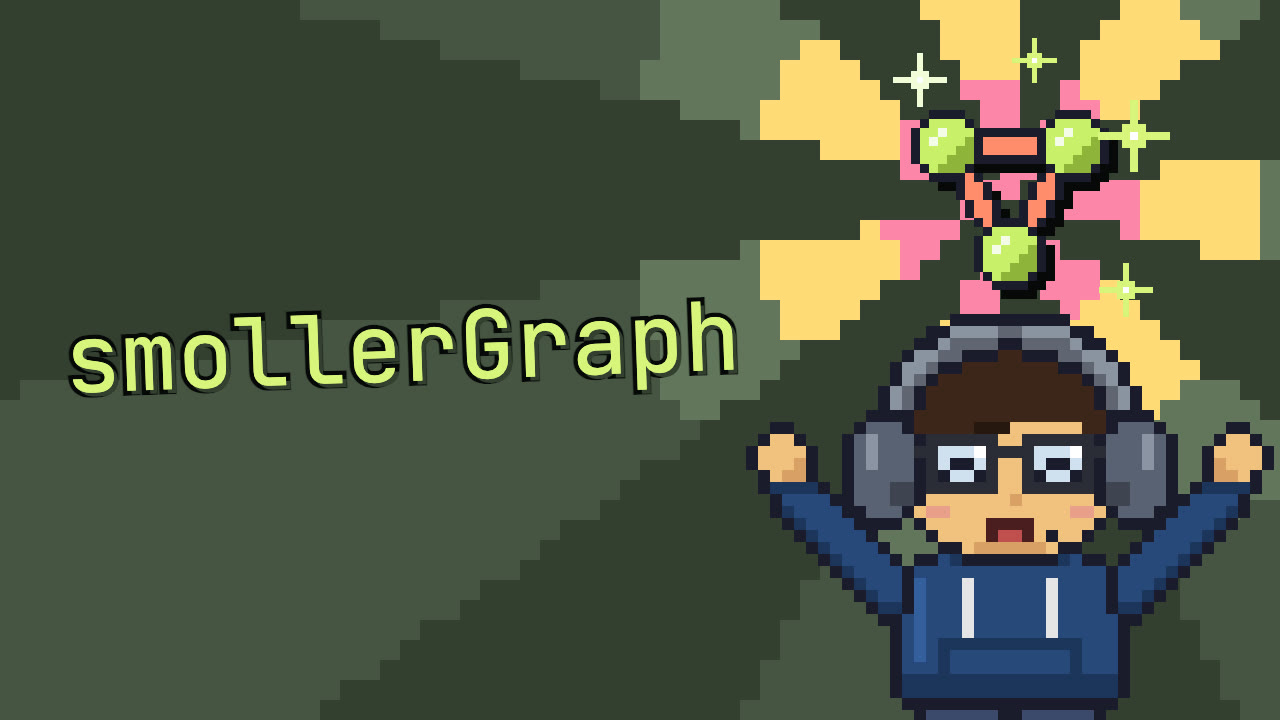
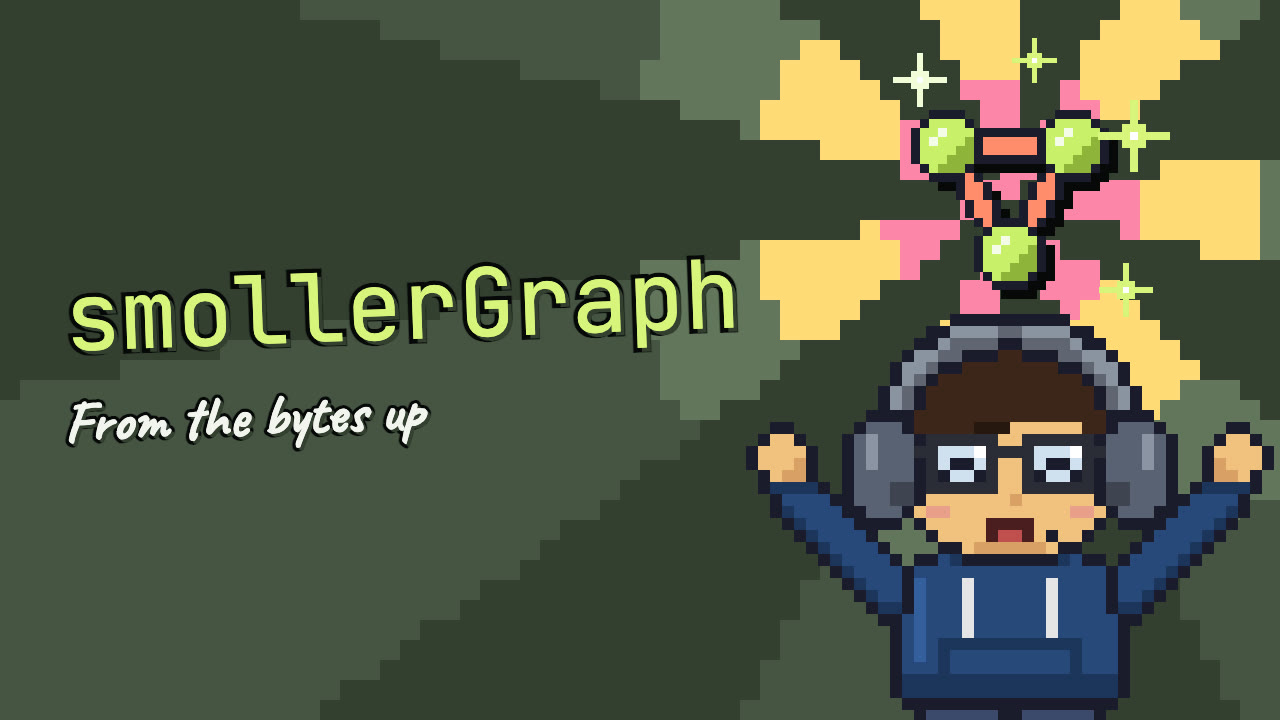
Build the site from smollerGraph-series 000b285

Changed region(s): [[0.0312, 0.3361, 0.5938, 0.6417]]

diff --git a/index.html b/index.html
@@ -1,4 +1,4 @@
-<!DOCTYPE html><html lang="en-GB" data-astro-cid-hkbrpulz><head><meta charset="utf-8"><meta name="viewport" content="width=device-width, initial-scale=1"><title>smollerGraph | Building smollerGraph: A Graph Database from Scratch</title><meta name="description" content="We're going to build a small graph database from scratch in C++: how it stores nodes and relationships on disk, how it finds its way around them, and how a Cypher query becomes a plan that runs, with Neo4j and Kùzu as the systems we learn from and measure against, heading towards a knowledge graph that mvGPT can ask for facts."><link rel="canonical" href="https://smollergraph.nenuadrian.com/"><link rel="icon" href="/favicon.svg" type="image/svg+xml"><link rel="alternate" type="application/rss+xml" title="smollerGraph" href="/rss.xml"><link rel="sitemap" href="/sitemap.xml"><meta name="theme-color" content="#0a0f0e"><meta property="og:site_name" content="smollerGraph"><meta property="og:type" content="website"><meta property="og:title" content="smollerGraph | Building smollerGraph: A Graph Database from Scratch"><meta property="og:description" content="We're going to build a small graph database from scratch in C++: how it stores nodes and relationships on disk, how it finds its way around them, and how a Cypher query becomes a plan that runs, with Neo4j and Kùzu as the systems we learn from and measure against, heading towards a knowledge graph that mvGPT can ask for facts."><meta property="og:url" content="https://smollergraph.nenuadrian.com/"><meta property="og:locale" content="en_GB"><meta property="og:image" content="https://smollergraph.nenuadrian.com/cover.3e89d479cf.jpg"><meta property="og:image:alt" content="Building smollerGraph: A Graph Database from Scratch"><meta name="twitter:card" content="summary_large_image"><style>:root{--bg:#0a0f0e;--bg-rgb:10 15 14;--surface:#0e1513;--surface-2:#121c19;--line:#182521;--shadow:#1f302b;--text:#e6ede2;--heading:#f1f5ee;--prose:#d6ddd3;--muted:#a2aba2;--faint:#7d8780;--ember:#c8f169;--ember-2:#ff8c6b;--on-ember:#0e1513;--code:#C8F169;--font-display:"JetBrains Mono", var(--font-ui);--font-ui:"Inter", -apple-system, 'Helvetica Neue', sans-serif;--font-mono:"JetBrains Mono", Menlo, monospace;--font-hand:"Caveat", 'Comic Sans MS', cursive}</style><style>/* smollerGraph's website on top of aphrodite's: the look's green-black field, chartreuse for nodes
+<!DOCTYPE html><html lang="en-GB" data-astro-cid-hkbrpulz><head><meta charset="utf-8"><meta name="viewport" content="width=device-width, initial-scale=1"><title>smollerGraph | Building smollerGraph: A Graph Database from Scratch</title><meta name="description" content="We're going to build a small graph database from scratch in C++: how it stores nodes and relationships on disk, how it finds its way around them, and how a Cypher query becomes a plan that runs, with Neo4j and Kùzu as the systems we learn from and measure against, heading towards a knowledge graph that mvGPT can ask for facts."><link rel="canonical" href="https://smollergraph.nenuadrian.com/"><link rel="icon" href="/favicon.svg" type="image/svg+xml"><link rel="alternate" type="application/rss+xml" title="smollerGraph" href="/rss.xml"><link rel="sitemap" href="/sitemap.xml"><meta name="theme-color" content="#0a0f0e"><meta property="og:site_name" content="smollerGraph"><meta property="og:type" content="website"><meta property="og:title" content="smollerGraph | Building smollerGraph: A Graph Database from Scratch"><meta property="og:description" content="We're going to build a small graph database from scratch in C++: how it stores nodes and relationships on disk, how it finds its way around them, and how a Cypher query becomes a plan that runs, with Neo4j and Kùzu as the systems we learn from and measure against, heading towards a knowledge graph that mvGPT can ask for facts."><meta property="og:url" content="https://smollergraph.nenuadrian.com/"><meta property="og:locale" content="en_GB"><meta property="og:image" content="https://smollergraph.nenuadrian.com/cover.71113bfdbb.jpg"><meta property="og:image:alt" content="Building smollerGraph: A Graph Database from Scratch"><meta name="twitter:card" content="summary_large_image"><style>:root{--bg:#0a0f0e;--bg-rgb:10 15 14;--surface:#0e1513;--surface-2:#121c19;--line:#182521;--shadow:#1f302b;--text:#e6ede2;--heading:#f1f5ee;--prose:#d6ddd3;--muted:#a2aba2;--faint:#7d8780;--ember:#c8f169;--ember-2:#ff8c6b;--on-ember:#0e1513;--code:#C8F169;--font-display:"JetBrains Mono", var(--font-ui);--font-ui:"Inter", -apple-system, 'Helvetica Neue', sans-serif;--font-mono:"JetBrains Mono", Menlo, monospace;--font-hand:"Caveat", 'Comic Sans MS', cursive}</style><style>/* smollerGraph's website on top of aphrodite's: the look's green-black field, chartreuse for nodes
    and links, coral for relationships and hovers, JetBrains Mono headings, as the brand is a Cypher
    node. aphrodite's own rules are in a cascade layer, so these win over them; site/components/ holds
    the brand and the heroes over the graph field. */
